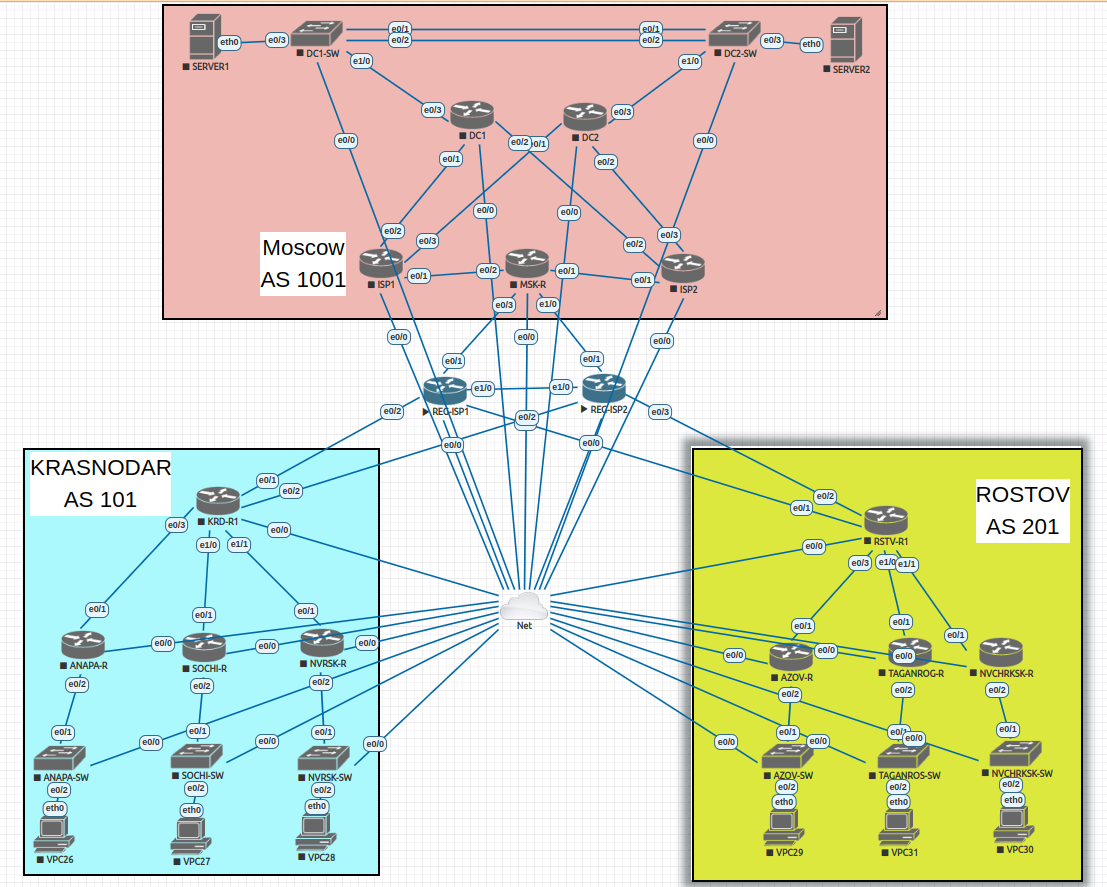
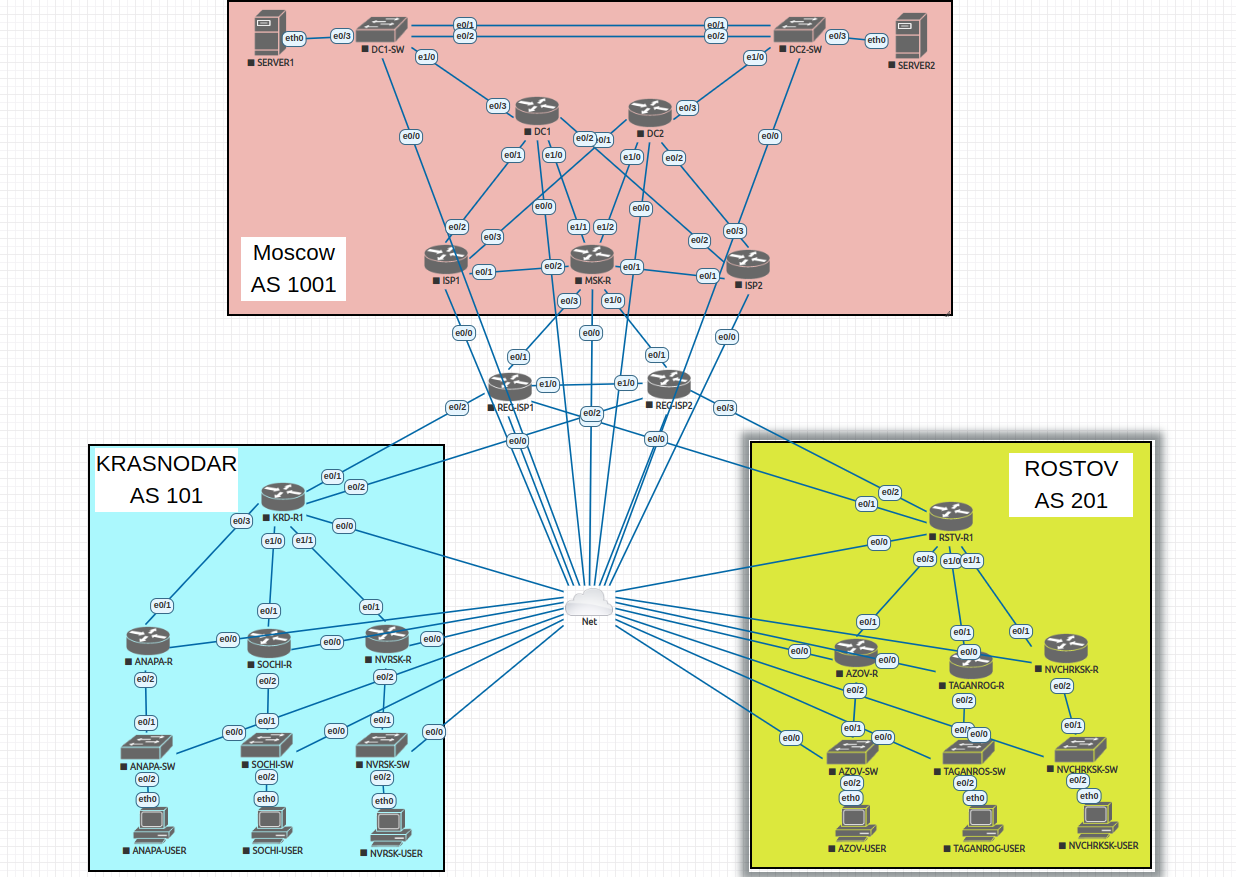
fix bgp settings

Changed region(s): [[0.0, 0.0, 1.0, 1.0], [0.6143, 0.1231, 0.645, 0.1847], [0.3071, 0.1231, 0.3379, 0.1847]]

diff --git a/00_Fin/README.md b/00_Fin/README.md
@@ -41,6 +41,8 @@
 |            | e0/2 | 10.10.111.14/30    | TO_ISP1      |
 |            | e0/3 | 10.10.141.10/30    | to_REG-ISP1  |
 |            | e1/0 | 10.10.141.14/30    | to_REG-ISP2  |
+|            | e1/1 | 10.10.111.34/30    | to_DC1       |
+|            | e1/2 | 10.10.111.38/30    | to_DC2       |
 |            | lo0  | 111.111.111.111/32 |              |
 |------------|------|--------------------|--------------|
 | ISP1       | e0/0 | 10.10.40.112       | ANSIBLE_PORT |
@@ -58,11 +60,13 @@
 | DC1        | e0/0 | 10.10.40.114       | ANSIBLE_PORT |
 |            | e0/1 | 10.10.111.17/30    | TO_ISP1      |
 |            | e0/2 | 10.10.111.25/30    | TO_ISP2      |
+|            | e1/0 | 10.10.111.33/30    | TO_MSK-R     |
 |            | lo0  | 114.114.114.114/32 |              |
 |------------|------|--------------------|--------------|
 | DC2        | e0/0 | 10.10.40.115       | ANSIBLE_PORT |
-|            | e0/1 | 10.10.1.21/30      | TO_ISP1      |
-|            | e0/2 | 10.10.1.29/30      | TO_ISP2      |
+|            | e0/1 | 10.10.111.21/30    | TO_ISP1      |
+|            | e0/2 | 10.10.111.29/30    | TO_ISP2      |
+|            | e1/0 | 10.10.111.37/30    | TO_MSK-R     |
 |            | lo0  | 115.115.115.115/32 |              |
 |------------|------|--------------------|--------------|
 
@@ -189,352 +193,3 @@ DC1#wr
    
 ![](img/bgp_template.png)
 
-
-Получаю проблему: 
-на ISP1 и ISP2 приходят все маршруты (и с нижней части схемы и с DC1 и DC 2)
-
-```
-ISP1#sh ip ro
-Codes: L - local, C - connected, S - static, R - RIP, M - mobile, B - BGP
-       D - EIGRP, EX - EIGRP external, O - OSPF, IA - OSPF inter area 
-       N1 - OSPF NSSA external type 1, N2 - OSPF NSSA external type 2
-       E1 - OSPF external type 1, E2 - OSPF external type 2
-       i - IS-IS, su - IS-IS summary, L1 - IS-IS level-1, L2 - IS-IS level-2
-       ia - IS-IS inter area, * - candidate default, U - per-user static route
-       o - ODR, P - periodic downloaded static route, H - NHRP, l - LISP
-       a - application route
-       + - replicated route, % - next hop override, p - overrides from PfR
-
-Gateway of last resort is not set
-
-      10.0.0.0/8 is variably subnetted, 22 subnets, 2 masks
-B        10.10.111.8/30 [200/0] via 10.10.111.14, 00:35:03
-C        10.10.111.12/30 is directly connected, Ethernet0/1
-L        10.10.111.13/32 is directly connected, Ethernet0/1
-C        10.10.111.16/30 is directly connected, Ethernet0/2
-L        10.10.111.18/32 is directly connected, Ethernet0/2
-C        10.10.111.20/30 is directly connected, Ethernet0/3
-L        10.10.111.22/32 is directly connected, Ethernet0/3
-B        10.10.111.24/30 [200/0] via 10.10.111.17, 00:35:04
-B        10.10.111.28/30 [200/0] via 10.10.111.21, 00:35:05
-B        10.10.121.8/30 [200/0] via 10.10.111.14, 00:34:35
-B        10.10.121.12/30 [200/0] via 10.10.111.14, 00:34:35
-B        10.10.121.16/30 [200/0] via 10.10.111.14, 00:34:35
-B        10.10.131.8/30 [200/0] via 10.10.111.14, 00:35:03
-B        10.10.131.12/30 [200/0] via 10.10.111.14, 00:35:03
-B        10.10.131.16/30 [200/0] via 10.10.111.14, 00:35:03
-B        10.10.141.8/30 [200/0] via 10.10.111.14, 00:35:03
-B        10.10.141.12/30 [200/0] via 10.10.111.14, 00:35:03
-B        10.10.141.16/30 [200/0] via 10.10.111.14, 00:34:35
-B        10.10.141.20/30 [200/0] via 10.10.111.14, 00:34:35
-B        10.10.141.24/30 [200/0] via 10.10.111.14, 00:35:03
-B        10.10.141.28/30 [200/0] via 10.10.111.14, 00:35:03
-B        10.10.141.32/30 [200/0] via 10.10.111.14, 00:35:03
-      111.0.0.0/32 is subnetted, 1 subnets
-B        111.111.111.111 [200/0] via 10.10.111.14, 00:35:03
-      112.0.0.0/32 is subnetted, 1 subnets
-C        112.112.112.112 is directly connected, Loopback0
-      114.0.0.0/32 is subnetted, 1 subnets
-B        114.114.114.114 [200/0] via 10.10.111.17, 00:35:04
-      115.0.0.0/32 is subnetted, 1 subnets
-B        115.115.115.115 [200/0] via 10.10.111.21, 00:35:05
-      121.0.0.0/32 is subnetted, 1 subnets
-B        121.121.121.121 [200/0] via 10.10.111.14, 00:34:35
-      122.0.0.0/32 is subnetted, 1 subnets
-B        122.122.122.122 [200/0] via 10.10.111.14, 00:34:35
-      123.0.0.0/32 is subnetted, 1 subnets
-B        123.123.123.123 [200/0] via 10.10.111.14, 00:34:35
-      124.0.0.0/32 is subnetted, 1 subnets
-B        124.124.124.124 [200/0] via 10.10.111.14, 00:34:35
-      131.131.0.0/32 is subnetted, 1 subnets
-B        131.131.131.131 [200/0] via 10.10.111.14, 00:35:03
-      132.132.0.0/32 is subnetted, 1 subnets
-B        132.132.132.132 [200/0] via 10.10.111.14, 00:35:03
-      133.133.0.0/32 is subnetted, 1 subnets
-B        133.133.133.133 [200/0] via 10.10.111.14, 00:35:03
-      134.134.0.0/32 is subnetted, 1 subnets
-B        134.134.134.134 [200/0] via 10.10.111.14, 00:35:03
-      141.141.0.0/32 is subnetted, 1 subnets
-B        141.141.141.141 [200/0] via 10.10.111.14, 00:34:35
-      142.142.0.0/32 is subnetted, 1 subnets
-B        142.142.142.142 [200/0] via 10.10.111.14, 00:35:03
-      172.18.0.0/24 is subnetted, 8 subnets
-B        172.18.10.0 [200/0] via 10.10.111.14, 00:34:04
-B        172.18.20.0 [200/0] via 10.10.111.14, 00:34:04
-B        172.18.30.0 [200/0] via 10.10.111.14, 00:34:04
-B        172.18.40.0 [200/0] via 10.10.111.14, 00:34:35
-B        172.18.50.0 [200/0] via 10.10.111.14, 00:34:35
-B        172.18.60.0 [200/0] via 10.10.111.14, 00:34:35
-B        172.18.100.0 [200/0] via 10.10.111.17, 00:35:04
-B        172.18.200.0 [200/0] via 10.10.111.21, 00:35:05
-      192.168.40.0/24 is variably subnetted, 2 subnets, 2 masks
-C        192.168.40.0/24 is directly connected, Ethernet0/0
-L        192.168.40.112/32 is directly connected, Ethernet0/0
-ISP1#
-```
-
-```
-ISP2#sh ip ro
-Codes: L - local, C - connected, S - static, R - RIP, M - mobile, B - BGP
-       D - EIGRP, EX - EIGRP external, O - OSPF, IA - OSPF inter area 
-       N1 - OSPF NSSA external type 1, N2 - OSPF NSSA external type 2
-       E1 - OSPF external type 1, E2 - OSPF external type 2
-       i - IS-IS, su - IS-IS summary, L1 - IS-IS level-1, L2 - IS-IS level-2
-       ia - IS-IS inter area, * - candidate default, U - per-user static route
-       o - ODR, P - periodic downloaded static route, H - NHRP, l - LISP
-       a - application route
-       + - replicated route, % - next hop override, p - overrides from PfR
-
-Gateway of last resort is not set
-
-      10.0.0.0/8 is variably subnetted, 22 subnets, 2 masks
-C        10.10.111.8/30 is directly connected, Ethernet0/1
-L        10.10.111.9/32 is directly connected, Ethernet0/1
-B        10.10.111.12/30 [200/0] via 10.10.111.10, 00:40:11
-B        10.10.111.16/30 [200/0] via 10.10.111.25, 00:40:11
-B        10.10.111.20/30 [200/0] via 10.10.111.29, 00:40:11
-C        10.10.111.24/30 is directly connected, Ethernet0/2
-L        10.10.111.26/32 is directly connected, Ethernet0/2
-C        10.10.111.28/30 is directly connected, Ethernet0/3
-L        10.10.111.30/32 is directly connected, Ethernet0/3
-B        10.10.121.8/30 [200/0] via 10.10.111.10, 00:39:44
-B        10.10.121.12/30 [200/0] via 10.10.111.10, 00:39:44
-B        10.10.121.16/30 [200/0] via 10.10.111.10, 00:39:44
-B        10.10.131.8/30 [200/0] via 10.10.111.10, 00:40:11
-B        10.10.131.12/30 [200/0] via 10.10.111.10, 00:40:11
-B        10.10.131.16/30 [200/0] via 10.10.111.10, 00:40:11
-B        10.10.141.8/30 [200/0] via 10.10.111.10, 00:40:11
-B        10.10.141.12/30 [200/0] via 10.10.111.10, 00:40:11
-B        10.10.141.16/30 [200/0] via 10.10.111.10, 00:39:44
-B        10.10.141.20/30 [200/0] via 10.10.111.10, 00:39:44
-B        10.10.141.24/30 [200/0] via 10.10.111.10, 00:40:11
-B        10.10.141.28/30 [200/0] via 10.10.111.10, 00:40:11
-B        10.10.141.32/30 [200/0] via 10.10.111.10, 00:40:11
-      111.0.0.0/32 is subnetted, 1 subnets
-B        111.111.111.111 [200/0] via 10.10.111.10, 00:40:11
-      113.0.0.0/32 is subnetted, 1 subnets
-C        113.113.113.113 is directly connected, Loopback0
-      114.0.0.0/32 is subnetted, 1 subnets
-B        114.114.114.114 [200/0] via 10.10.111.25, 00:40:11
-      115.0.0.0/32 is subnetted, 1 subnets
-B        115.115.115.115 [200/0] via 10.10.111.29, 00:40:11
-      121.0.0.0/32 is subnetted, 1 subnets
-B        121.121.121.121 [200/0] via 10.10.111.10, 00:39:44
-      122.0.0.0/32 is subnetted, 1 subnets
-B        122.122.122.122 [200/0] via 10.10.111.10, 00:39:44
-      123.0.0.0/32 is subnetted, 1 subnets
-B        123.123.123.123 [200/0] via 10.10.111.10, 00:39:44
-      124.0.0.0/32 is subnetted, 1 subnets
-B        124.124.124.124 [200/0] via 10.10.111.10, 00:39:44
-      131.131.0.0/32 is subnetted, 1 subnets
-B        131.131.131.131 [200/0] via 10.10.111.10, 00:40:11
-      132.132.0.0/32 is subnetted, 1 subnets
-B        132.132.132.132 [200/0] via 10.10.111.10, 00:40:11
-      133.133.0.0/32 is subnetted, 1 subnets
-B        133.133.133.133 [200/0] via 10.10.111.10, 00:40:11
-      134.134.0.0/32 is subnetted, 1 subnets
-B        134.134.134.134 [200/0] via 10.10.111.10, 00:40:11
-      141.141.0.0/32 is subnetted, 1 subnets
-B        141.141.141.141 [200/0] via 10.10.111.10, 00:39:44
-      142.142.0.0/32 is subnetted, 1 subnets
-B        142.142.142.142 [200/0] via 10.10.111.10, 00:40:11
-      172.18.0.0/24 is subnetted, 8 subnets
-B        172.18.10.0 [200/0] via 10.10.111.10, 00:39:13
-B        172.18.20.0 [200/0] via 10.10.111.10, 00:39:13
-B        172.18.30.0 [200/0] via 10.10.111.10, 00:39:13
-B        172.18.40.0 [200/0] via 10.10.111.10, 00:39:44
-B        172.18.50.0 [200/0] via 10.10.111.10, 00:39:44
-B        172.18.60.0 [200/0] via 10.10.111.10, 00:39:44
-B        172.18.100.0 [200/0] via 10.10.111.25, 00:40:11
-B        172.18.200.0 [200/0] via 10.10.111.29, 00:40:11
-      192.168.40.0/24 is variably subnetted, 2 subnets, 2 masks
-C        192.168.40.0/24 is directly connected, Ethernet0/0
-L        192.168.40.113/32 is directly connected, Ethernet0/0
-ISP2# 
-```
-
-при этом на MSK-R и ниже (REG-ISP, KRD-R, RSTV-R и т.д) приходят маршруты только нижней части схемы
-
-```
-MSK-R#sh ip ro
-Codes: L - local, C - connected, S - static, R - RIP, M - mobile, B - BGP
-       D - EIGRP, EX - EIGRP external, O - OSPF, IA - OSPF inter area 
-       N1 - OSPF NSSA external type 1, N2 - OSPF NSSA external type 2
-       E1 - OSPF external type 1, E2 - OSPF external type 2
-       i - IS-IS, su - IS-IS summary, L1 - IS-IS level-1, L2 - IS-IS level-2
-       ia - IS-IS inter area, * - candidate default, U - per-user static route
-       o - ODR, P - periodic downloaded static route, H - NHRP, l - LISP
-       a - application route
-       + - replicated route, % - next hop override, p - overrides from PfR
-
-Gateway of last resort is not set
-
-      10.0.0.0/8 is variably subnetted, 23 subnets, 2 masks
-C        10.10.111.8/30 is directly connected, Ethernet0/1
-L        10.10.111.10/32 is directly connected, Ethernet0/1
-C        10.10.111.12/30 is directly connected, Ethernet0/2
-L        10.10.111.14/32 is directly connected, Ethernet0/2
-B        10.10.111.16/30 [200/0] via 10.10.111.13, 00:40:49
-B        10.10.111.20/30 [200/0] via 10.10.111.13, 00:40:49
-B        10.10.111.24/30 [200/0] via 10.10.111.9, 00:40:48
-B        10.10.111.28/30 [200/0] via 10.10.111.9, 00:40:48
-B        10.10.121.8/30 [20/0] via 10.10.141.13, 00:40:22
-                        [20/0] via 10.10.141.9, 00:40:22
-B        10.10.121.12/30 [20/0] via 10.10.141.13, 00:40:22
-                         [20/0] via 10.10.141.9, 00:40:22
-B        10.10.121.16/30 [20/0] via 10.10.141.13, 00:40:22
-                         [20/0] via 10.10.141.9, 00:40:22
-B        10.10.131.8/30 [20/0] via 10.10.141.13, 00:40:49
-                        [20/0] via 10.10.141.9, 00:40:49
-B        10.10.131.12/30 [20/0] via 10.10.141.13, 00:40:49
-                         [20/0] via 10.10.141.9, 00:40:49
-B        10.10.131.16/30 [20/0] via 10.10.141.13, 00:40:49
-                         [20/0] via 10.10.141.9, 00:40:49
-C        10.10.141.8/30 is directly connected, Ethernet0/3
-L        10.10.141.10/32 is directly connected, Ethernet0/3
-C        10.10.141.12/30 is directly connected, Ethernet1/0
-L        10.10.141.14/32 is directly connected, Ethernet1/0
-B        10.10.141.16/30 [20/0] via 10.10.141.13, 00:40:22
-                         [20/0] via 10.10.141.9, 00:40:22
-B        10.10.141.20/30 [20/0] via 10.10.141.13, 00:40:22
-                         [20/0] via 10.10.141.9, 00:40:22
-B        10.10.141.24/30 [20/0] via 10.10.141.13, 00:40:49
-                         [20/0] via 10.10.141.9, 00:40:49
-B        10.10.141.28/30 [20/0] via 10.10.141.13, 00:40:49
-                         [20/0] via 10.10.141.9, 00:40:49
-B        10.10.141.32/30 [20/0] via 10.10.141.13, 00:40:49
-                         [20/0] via 10.10.141.9, 00:40:49
-      111.0.0.0/32 is subnetted, 1 subnets
-C        111.111.111.111 is directly connected, Loopback0
-      112.0.0.0/32 is subnetted, 1 subnets
-B        112.112.112.112 [200/0] via 10.10.111.13, 00:40:49
-      113.0.0.0/32 is subnetted, 1 subnets
-B        113.113.113.113 [200/0] via 10.10.111.9, 00:40:48
-      121.0.0.0/32 is subnetted, 1 subnets
-B        121.121.121.121 [20/0] via 10.10.141.13, 00:40:22
-                         [20/0] via 10.10.141.9, 00:40:22
-      122.0.0.0/32 is subnetted, 1 subnets
-B        122.122.122.122 [20/0] via 10.10.141.13, 00:40:22
-                         [20/0] via 10.10.141.9, 00:40:22
-      123.0.0.0/32 is subnetted, 1 subnets
-B        123.123.123.123 [20/0] via 10.10.141.13, 00:40:22
-                         [20/0] via 10.10.141.9, 00:40:22
-      124.0.0.0/32 is subnetted, 1 subnets
-B        124.124.124.124 [20/0] via 10.10.141.13, 00:40:22
-                         [20/0] via 10.10.141.9, 00:40:22
-      131.131.0.0/32 is subnetted, 1 subnets
-B        131.131.131.131 [20/0] via 10.10.141.13, 00:40:49
-                         [20/0] via 10.10.141.9, 00:40:49
-      132.132.0.0/32 is subnetted, 1 subnets
-B        132.132.132.132 [20/0] via 10.10.141.13, 00:40:49
-                         [20/0] via 10.10.141.9, 00:40:49
-      133.133.0.0/32 is subnetted, 1 subnets
-B        133.133.133.133 [20/0] via 10.10.141.13, 00:40:49
-                         [20/0] via 10.10.141.9, 00:40:49
-      134.134.0.0/32 is subnetted, 1 subnets
-B        134.134.134.134 [20/0] via 10.10.141.13, 00:40:49
-                         [20/0] via 10.10.141.9, 00:40:49
-      141.141.0.0/32 is subnetted, 1 subnets
-B        141.141.141.141 [20/0] via 10.10.141.13, 00:40:22
-                         [20/0] via 10.10.141.9, 00:40:22
-      142.142.0.0/32 is subnetted, 1 subnets
-B        142.142.142.142 [20/0] via 10.10.141.13, 00:40:49
-                         [20/0] via 10.10.141.9, 00:40:49
-      172.18.0.0/24 is subnetted, 6 subnets
-B        172.18.10.0 [20/0] via 10.10.141.13, 00:39:51
-                     [20/0] via 10.10.141.9, 00:39:51
-B        172.18.20.0 [20/0] via 10.10.141.13, 00:39:51
-                     [20/0] via 10.10.141.9, 00:39:51
-B        172.18.30.0 [20/0] via 10.10.141.13, 00:39:51
-                     [20/0] via 10.10.141.9, 00:39:51
-B        172.18.40.0 [20/0] via 10.10.141.13, 00:40:22
-                     [20/0] via 10.10.141.9, 00:40:22
-B        172.18.50.0 [20/0] via 10.10.141.13, 00:40:22
-                     [20/0] via 10.10.141.9, 00:40:22
-B        172.18.60.0 [20/0] via 10.10.141.13, 00:40:22
-                     [20/0] via 10.10.141.9, 00:40:22
-      192.168.40.0/24 is variably subnetted, 2 subnets, 2 masks
-C        192.168.40.0/24 is directly connected, Ethernet0/0
-L        192.168.40.111/32 is directly connected, Ethernet0/0
-MSK-R#
-```
-Т.е Москва уже не видит loopback интерфейсы и vlan на DC1 и DC2, при этом эти маршруты есть за MSK-К на роутерах ISP
-
-DC1 и DC2 видят только
-
-```
-DC1#sh ip ro
-Codes: L - local, C - connected, S - static, R - RIP, M - mobile, B - BGP
-       D - EIGRP, EX - EIGRP external, O - OSPF, IA - OSPF inter area 
-       N1 - OSPF NSSA external type 1, N2 - OSPF NSSA external type 2
-       E1 - OSPF external type 1, E2 - OSPF external type 2
-       i - IS-IS, su - IS-IS summary, L1 - IS-IS level-1, L2 - IS-IS level-2
-       ia - IS-IS inter area, * - candidate default, U - per-user static route
-       o - ODR, P - periodic downloaded static route, H - NHRP, l - LISP
-       a - application route
-       + - replicated route, % - next hop override, p - overrides from PfR
-
-Gateway of last resort is not set
-
-      10.0.0.0/8 is variably subnetted, 8 subnets, 2 masks
-B        10.10.111.8/30 [200/0] via 10.10.111.26, 00:44:16
-B        10.10.111.12/30 [200/0] via 10.10.111.18, 00:44:19
-C        10.10.111.16/30 is directly connected, Ethernet0/1
-L        10.10.111.17/32 is directly connected, Ethernet0/1
-B        10.10.111.20/30 [200/0] via 10.10.111.18, 00:44:19
-C        10.10.111.24/30 is directly connected, Ethernet0/2
-L        10.10.111.25/32 is directly connected, Ethernet0/2
-B        10.10.111.28/30 [200/0] via 10.10.111.26, 00:44:16
-      112.0.0.0/32 is subnetted, 1 subnets
-B        112.112.112.112 [200/0] via 10.10.111.18, 00:44:19
-      113.0.0.0/32 is subnetted, 1 subnets
-B        113.113.113.113 [200/0] via 10.10.111.26, 00:44:16
-      114.0.0.0/32 is subnetted, 1 subnets
-C        114.114.114.114 is directly connected, Loopback0
-      172.18.0.0/16 is variably subnetted, 2 subnets, 2 masks
-C        172.18.100.0/24 is directly connected, Ethernet0/3.100
-L        172.18.100.1/32 is directly connected, Ethernet0/3.100
-      192.168.40.0/24 is variably subnetted, 2 subnets, 2 masks
-C        192.168.40.0/24 is directly connected, Ethernet0/0
-L        192.168.40.114/32 is directly connected, Ethernet0/0
-DC1# 
-```
-
-```
-DC2#sh ip ro
-Codes: L - local, C - connected, S - static, R - RIP, M - mobile, B - BGP
-       D - EIGRP, EX - EIGRP external, O - OSPF, IA - OSPF inter area 
-       N1 - OSPF NSSA external type 1, N2 - OSPF NSSA external type 2
-       E1 - OSPF external type 1, E2 - OSPF external type 2
-       i - IS-IS, su - IS-IS summary, L1 - IS-IS level-1, L2 - IS-IS level-2
-       ia - IS-IS inter area, * - candidate default, U - per-user static route
-       o - ODR, P - periodic downloaded static route, H - NHRP, l - LISP
-       a - application route
-       + - replicated route, % - next hop override, p - overrides from PfR
-
-Gateway of last resort is not set
-
-      10.0.0.0/8 is variably subnetted, 8 subnets, 2 masks
-B        10.10.111.8/30 [200/0] via 10.10.111.30, 00:46:29
-B        10.10.111.12/30 [200/0] via 10.10.111.22, 00:46:32
-B        10.10.111.16/30 [200/0] via 10.10.111.22, 00:46:32
-C        10.10.111.20/30 is directly connected, Ethernet0/1
-L        10.10.111.21/32 is directly connected, Ethernet0/1
-B        10.10.111.24/30 [200/0] via 10.10.111.30, 00:46:29
-C        10.10.111.28/30 is directly connected, Ethernet0/2
-L        10.10.111.29/32 is directly connected, Ethernet0/2
-      112.0.0.0/32 is subnetted, 1 subnets
-B        112.112.112.112 [200/0] via 10.10.111.22, 00:46:32
-      113.0.0.0/32 is subnetted, 1 subnets
-B        113.113.113.113 [200/0] via 10.10.111.30, 00:46:29
-      115.0.0.0/32 is subnetted, 1 subnets
-C        115.115.115.115 is directly connected, Loopback0
-      172.18.0.0/16 is variably subnetted, 2 subnets, 2 masks
-C        172.18.200.0/24 is directly connected, Ethernet0/3.200
-L        172.18.200.1/32 is directly connected, Ethernet0/3.200
-      192.168.40.0/24 is variably subnetted, 2 subnets, 2 masks
-C        192.168.40.0/24 is directly connected, Ethernet0/0
-L        192.168.40.115/32 is directly connected, Ethernet0/0
-DC2# 
-```
-Конфигурации находятся в host_vars
